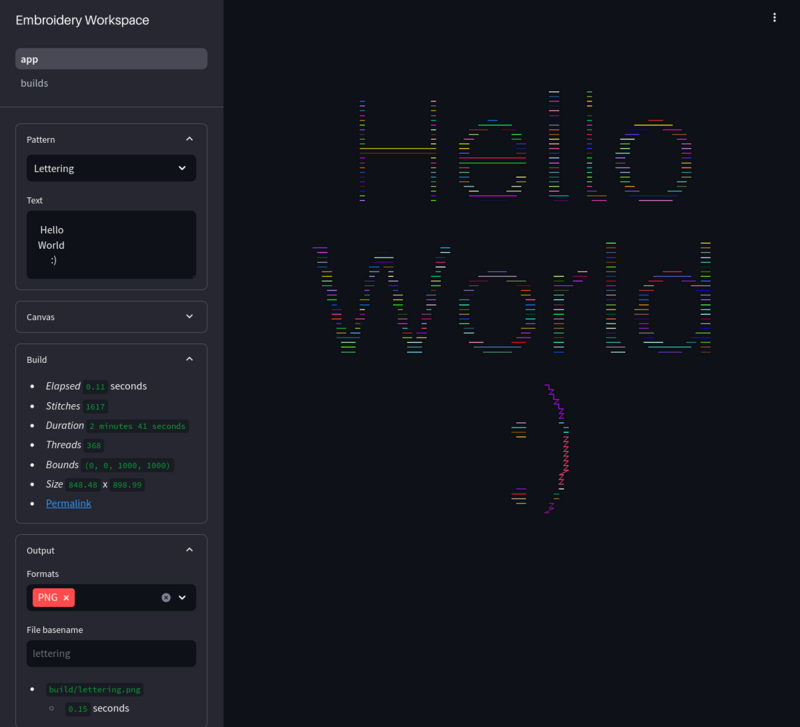
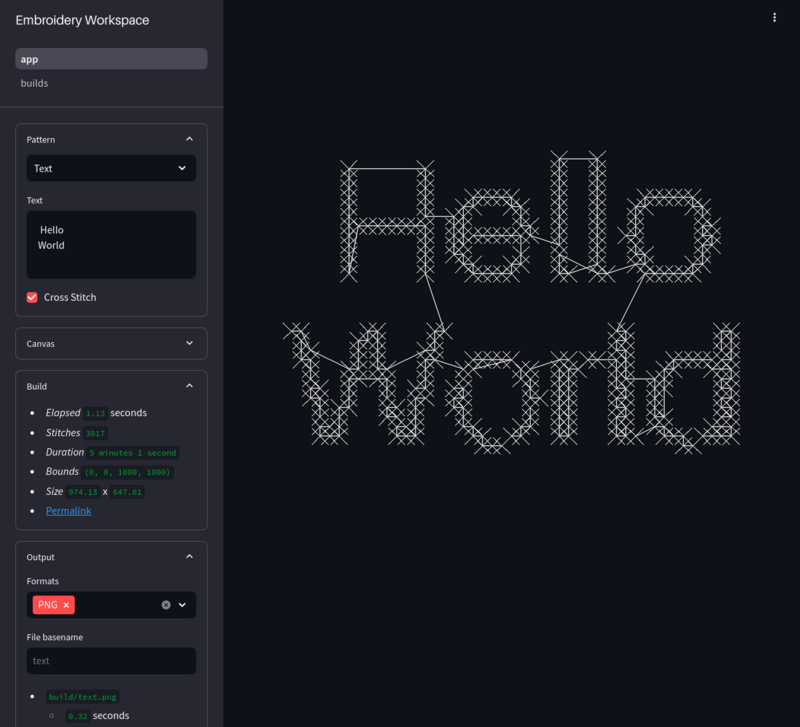
examples/text: add tsp path and cross stitch

diff --git a/patterns/examples/text.py b/patterns/examples/text.py
@@ -1,13 +1,12 @@
 import streamlit as st
 
 import numpy as np
-import random
 
 from patterns import Pattern, bbox_contains
 
-from PIL import Image, ImageDraw, ImageFont
+from patterns.tsp import tsp
 
-from shapely import LineString
+from PIL import Image, ImageDraw, ImageFont
 
 
 class Text(Pattern):
@@ -22,12 +21,17 @@ class Text(Pattern):
                         "value": " Hello\nWorld",
                     },
                 },
+                "cross_stitch": {
+                    "function": st.checkbox,
+                    "args": {
+                        "label": "Cross Stitch",
+                        "value": True,
+                    },
+                },
             },
         }
 
-    def pattern(self, text):
-        random.seed(1)
-
+    def pattern(self, text, cross_stitch):
         # create a black and white image +1 in size to match the 0 based lists
         image = Image.new("1", (self.canvas.width + 1, self.canvas.height + 1), "white")
         draw = ImageDraw.Draw(image)
@@ -47,25 +51,31 @@ class Text(Pattern):
         draw.text((self.canvas.margin, self.canvas.margin), text, font=font)
 
         # create an evenly spaced grid of points
-        x = np.linspace(0, self.canvas.width, 100)
-        y = np.linspace(0, self.canvas.height, 100)
+        x = np.linspace(0, self.canvas.width, 50)
+        y = np.linspace(0, self.canvas.height, 50)
         xv, yv = np.meshgrid(x, y)
         coords = list(np.vstack(list(zip(xv.ravel(), yv.ravel()))))
+
         # only use coords that overlap with a black image pixel
         coords = [c for c in coords if image.getpixel(c) == 0x000000]
 
+        # create an optimized path using a TSP solver
+        coords = tsp(coords)
+
+        turtle = self.canvas.turtle
+
         for i, c in enumerate(coords):
-            line = LineString([self.canvas.pattern.stitches[-1][0:2], c]).segmentize(10)
-
-            # if every line segment is not overlayed on the text, add a random color to the pattern to change the thread
-            if not all([image.getpixel(c) == 0x000000 for c in line.coords]):
-                self.canvas.pattern += f"#{random.randint(0x000000, 0xFFFFFF):6x}"
-
-            self.canvas.pattern += tuple(c)
+            turtle.goto(*c)
+            if cross_stitch:
+                for z in range(0, 4):
+                    turtle.setheading(45 + (z * 90))
+                    turtle.forward(self.canvas.MU)
+                    turtle.backward(self.canvas.MU)
 
             if i % 50 == 0:
                 yield self.canvas.pattern
 
-        self.canvas.pattern.center(*self.canvas.centroid)
+        turtle.center(*self.canvas.centroid)
+        turtle.write(self.canvas.pattern)
 
         yield self.canvas.pattern

diff --git a/patterns/tsp.py b/patterns/tsp.py
@@ -1,0 +1,52 @@
+import math
+
+from ortools.constraint_solver import routing_enums_pb2, pywrapcp
+
+
+# documentation: https://developers.google.com/optimization/routing/tsp
+def tsp(coords, time_limit=1):
+    manager = pywrapcp.RoutingIndexManager(len(coords), 1, 0)
+    routing = pywrapcp.RoutingModel(manager)
+    dmatrix = distance_matrix(coords)
+
+    routing.SetArcCostEvaluatorOfAllVehicles(
+        routing.RegisterTransitCallback(
+            lambda from_index, to_index: dmatrix[manager.IndexToNode(from_index)][
+                manager.IndexToNode(to_index)
+            ]
+        )
+    )
+
+    search_parameters = pywrapcp.DefaultRoutingSearchParameters()
+    search_parameters.local_search_metaheuristic = (
+        routing_enums_pb2.LocalSearchMetaheuristic.GUIDED_LOCAL_SEARCH
+    )
+    search_parameters.time_limit.seconds = time_limit
+
+    solution = routing.SolveWithParameters(search_parameters)
+
+    solution_coords = []
+
+    index = routing.Start(0)
+    while not routing.IsEnd(index):
+        solution_coords.append(coords[manager.IndexToNode(index)])
+        index = solution.Value(routing.NextVar(index))
+
+    return solution_coords
+
+
+def distance_matrix(coords):
+    matrix = {}
+    for from_index, from_node in enumerate(coords):
+        matrix[from_index] = {}
+        for to_index, to_node in enumerate(coords):
+            if from_index == to_index:
+                matrix[from_index][to_index] = 0
+            else:
+                matrix[from_index][to_index] = int(
+                    math.sqrt(
+                        (from_node[0] - to_node[0]) ** 2
+                        + (from_node[1] - to_node[1]) ** 2
+                    )
+                )
+    return matrix

diff --git a/images.py b/images.py
@@ -12,9 +12,7 @@ with sync_playwright() as p:
     screenshot_size = {"width": 1200, "height": 1100}
     page = browser.new_page(color_scheme="dark", viewport=screenshot_size)
 
-    page.goto(
-        f"http://localhost:8501/?pattern=Text&text=+Hello%0AWorld%0A++++++%3A%29"
-    )
+    page.goto(f"http://localhost:8501/?pattern=Text&text=+Hello%0AWorld")
     page.get_by_test_id("completed").wait_for()
     page.screenshot(
         path="screenshot.png", full_page=True, clip={"x": 1, "y": 10} | screenshot_size
